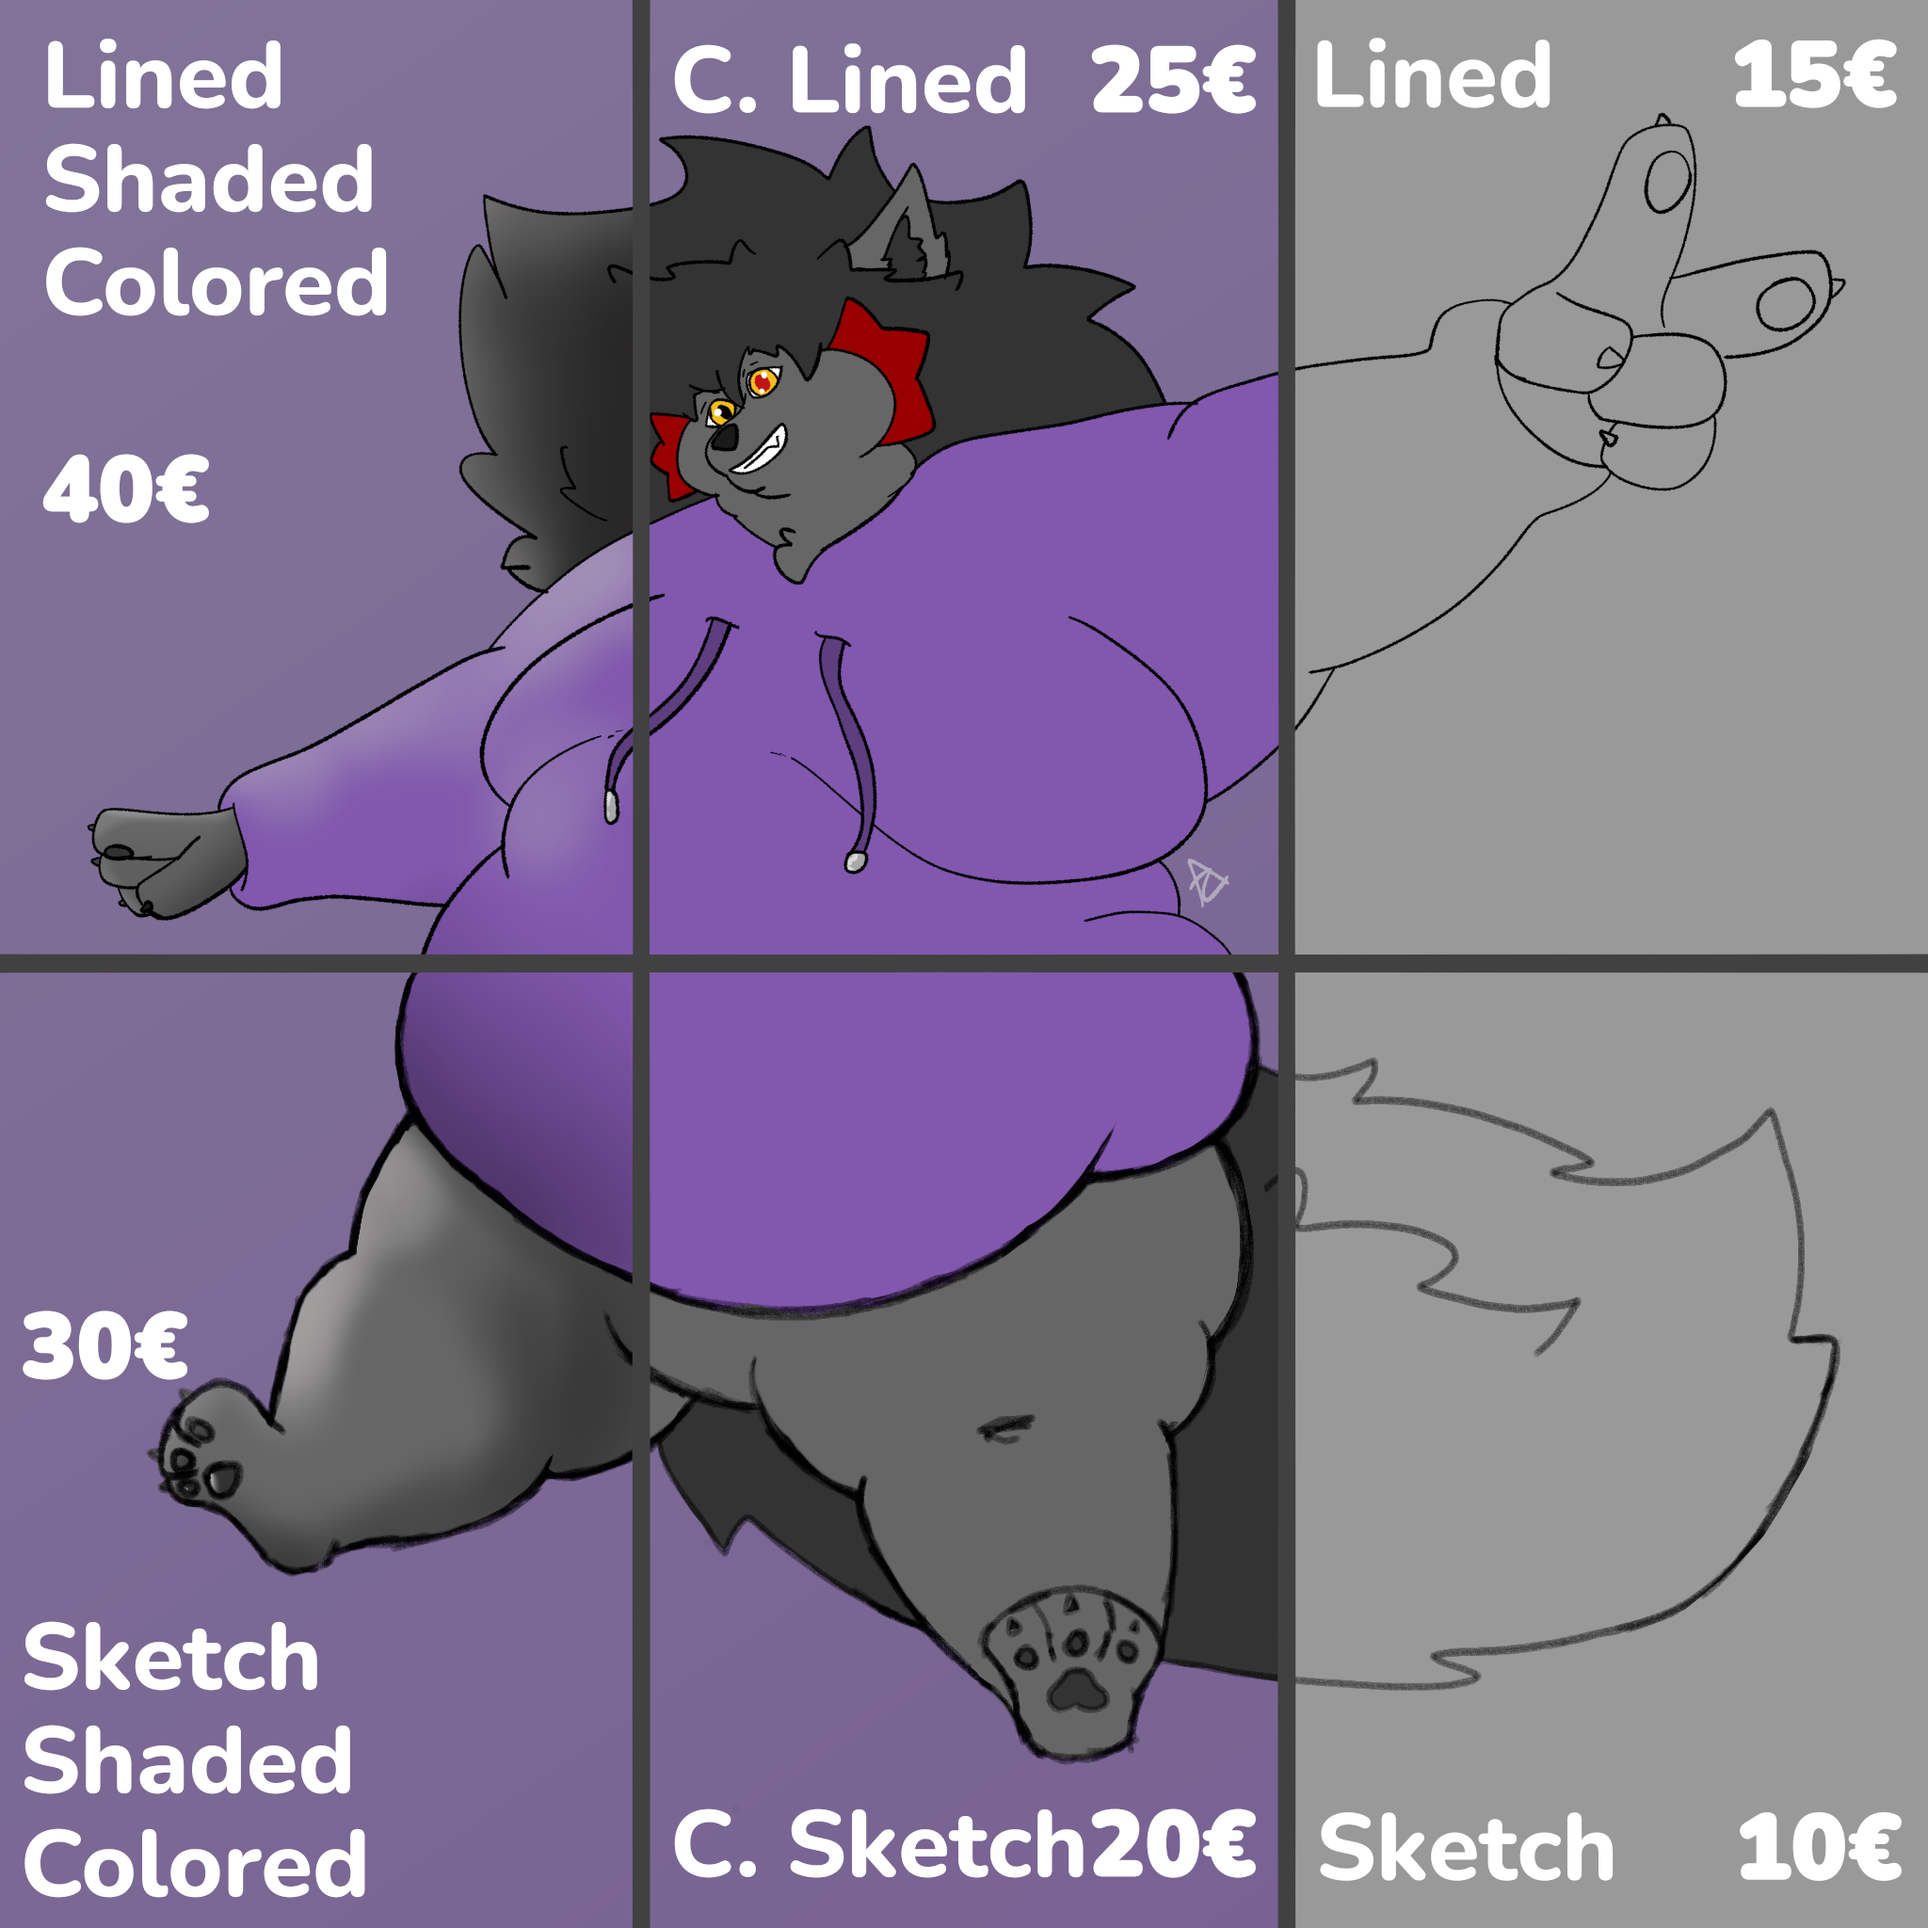
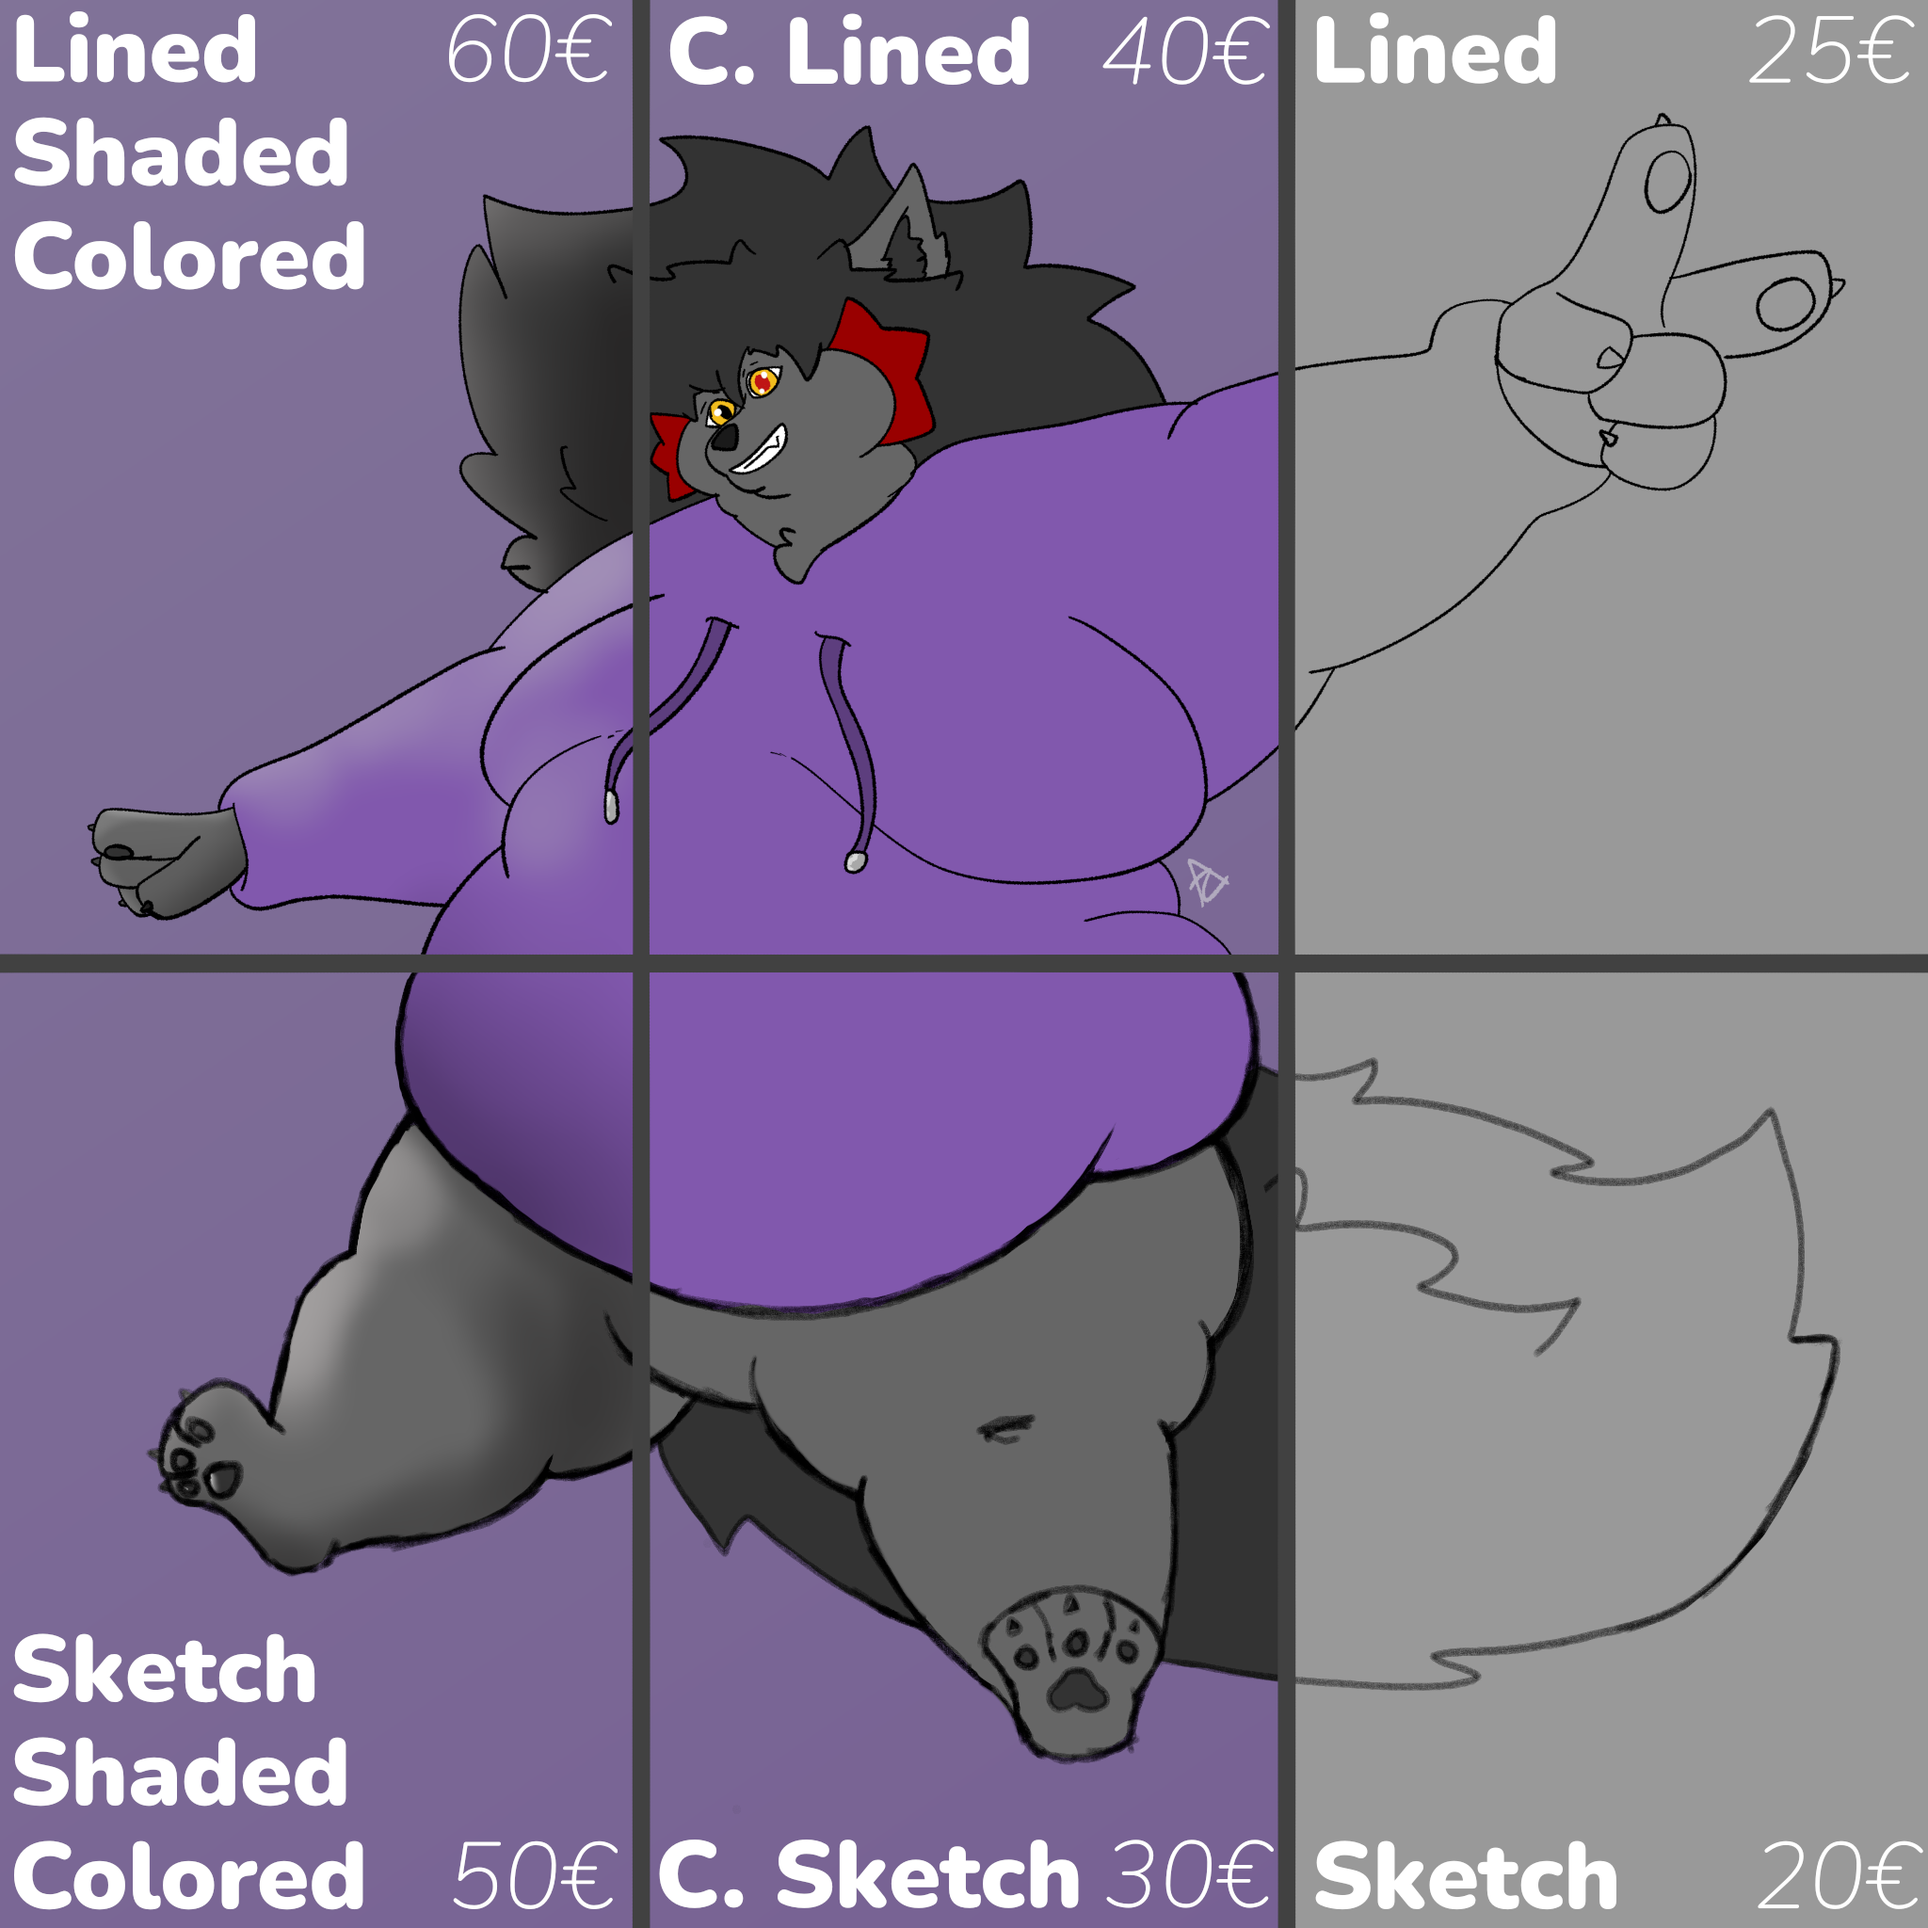
I finally raise my prices oh wow

diff --git a/commissions/index.html b/commissions/index.html
@@ -149,7 +149,7 @@
             <div class="pcard" data-bgimage="llps" tabindex="0">
             </div>
             <div class="pcard" id="text">
-                <h1>40€</h1>
+                <h1>80€</h1>
                 <h2 class="name">Lineless painted shaded</h2>
                 <h2>Detailed, lively, textured</h2>
             </div>
@@ -157,7 +157,7 @@
         <div class="row" id="reverse">
             <div class="pcard" data-bgimage="lcs" tabindex="0"></div>
             <div class="pcard">
-                <h1>40€</h1>
+                <h1>60€</h1>
                 <h2 class="name">Lined colored shaded</h2>
                 <h2>Refined, clean, soft</h2>
             </div>
@@ -166,7 +166,7 @@
             <div class="pcard" data-bgimage="css" id="css" tabindex="0">
             </div>
             <div class="pcard" id="text">
-                <h1>30€</h1>
+                <h1>50€</h1>
                 <h2 class="name">Colored shaded sketch</h2>
                 <h2>Bold, expressive, textured</h2>
             </div>
@@ -174,7 +174,7 @@
         <div class="row" id="reverse">
             <div class="pcard" data-bgimage="cl" tabindex="0"></div>
             <div class="pcard">
-                <h1>25€</h1>
+                <h1>40€</h1>
                 <h2 class="name">Colored lineart</h2>
                 <h2>Flat, legible, simple</h2>
             </div>
@@ -183,7 +183,7 @@
             <div class="pcard" data-bgimage="cs" id="cs" tabindex="0">
             </div>
             <div class="pcard" id="text">
-                <h1>20€</h1>
+                <h1>30€</h1>
                 <h2 class="name">Colored sketch</h2>
                 <h2>Expressive, clear, focused</h2>
             </div>
@@ -191,7 +191,7 @@
         <div class="row" id="reverse">
             <div class="pcard" data-bgimage="l" tabindex="0"></div>
             <div class="pcard">
-                <h1>15€</h1>
+                <h1>25€</h1>
                 <h2 class="name">Lineart</h2>
                 <h2>Budget conscious, clean, inspiring</h2>
             </div>
@@ -200,7 +200,7 @@
             <div class="pcard" data-bgimage="ss" tabindex="0">
             </div>
             <div class="pcard" id="text">
-                <h1>15€</h1>
+                <h1>25€</h1>
                 <h2 class="name">Shaded sketch</h2>
                 <h2>Conceptual, bold, budget conscious</h2>
             </div>
@@ -209,7 +209,7 @@
             <div class="pcard" data-bgimage="s" id="s" tabindex="0">
             </div>
             <div class="pcard" id="text">
-                <h1>10€</h1>
+                <h1>20€</h1>
                 <h2 class="name">Sketch</h2>
                 <h2>Budget minded, scrappy, expressive</h2>
             </div>
